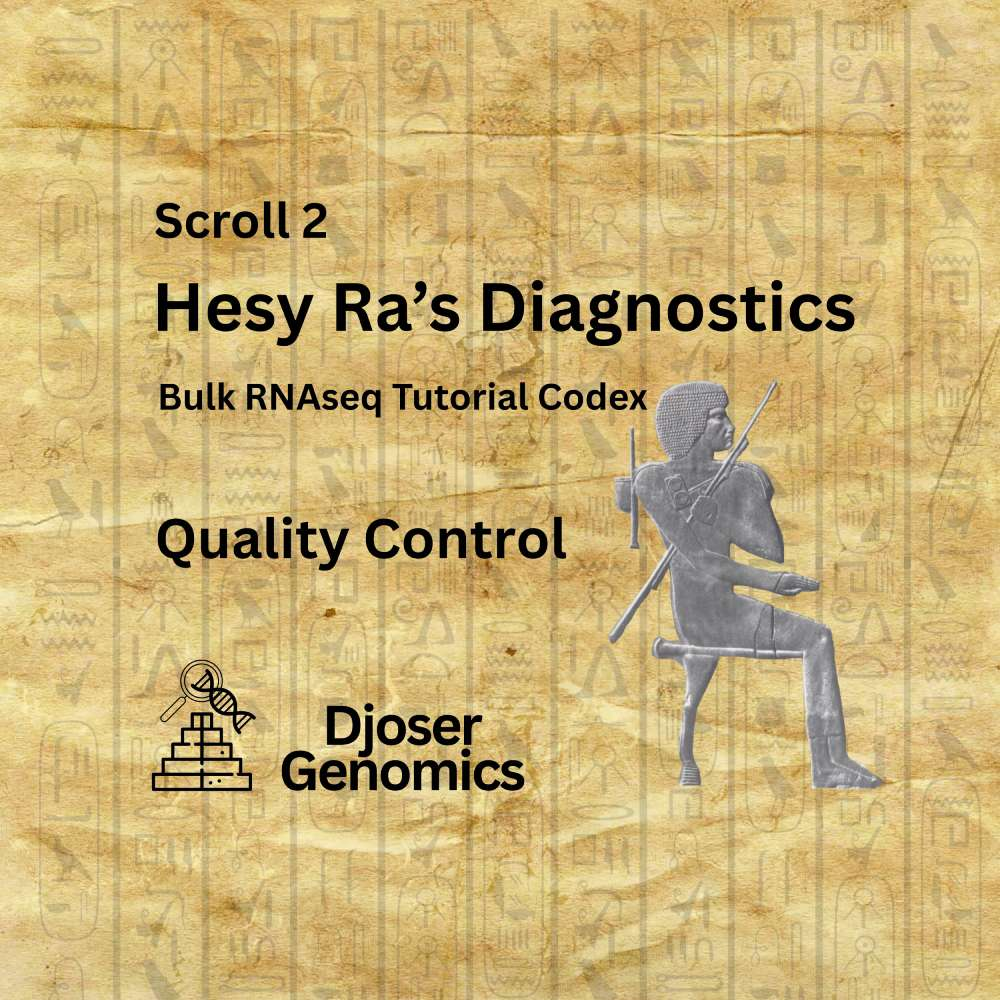
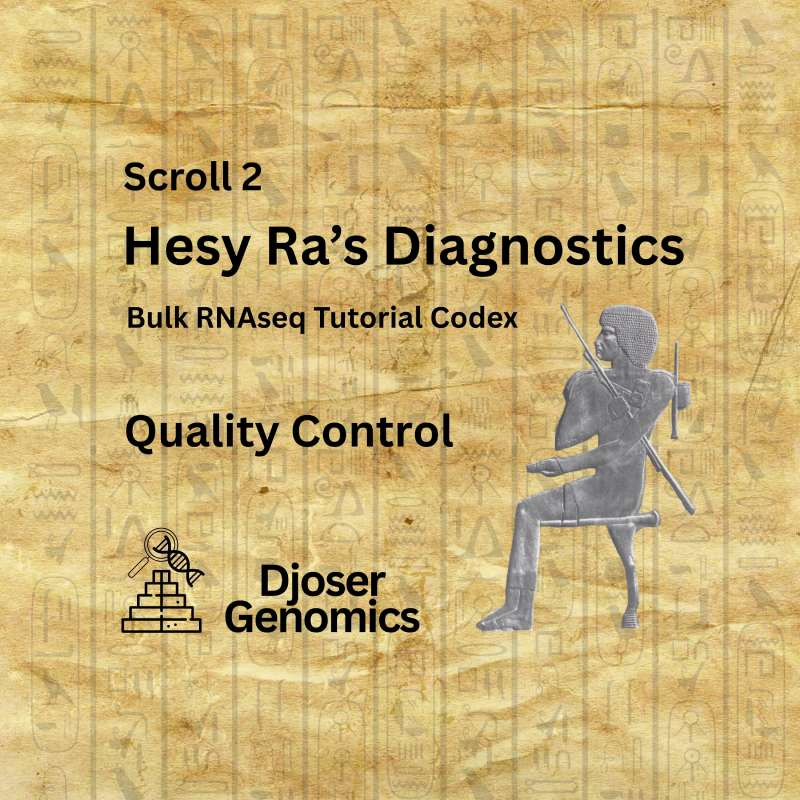
Created Scroll 3 and Optimized the Scrolls Images

diff --git a/_posts/2025-08-07-Scroll-3-Khufus-Calculations.md b/_posts/2025-08-07-Scroll-3-Khufus-Calculations.md
@@ -1,0 +1,334 @@
+---
+title: "Scroll 3: Khufu's Calculations"
+layout: post
+author: Nourelden
+categories: [Tutorials, RNAseq]
+tags: ["Bulk RNAseq Tutorial Codex", "History", "Djoser Genomics", "2025"]
+image: "assets/images/posts/Scroll-3-Khufus-Calculations/Scroll 3 Khufus Calculations.jpg"
+featured: true
+hidden: false
+---
+
+Welcome to **Scroll 3** of 8, from the [_Djoser’s Bulk RNAseq Tutorial Codex_]({{site_baseurl}}/Bulk-RNAseq-Tutorial-Codex/).
+
+In this scroll, we perform pseudoalignment — a fast, reference-based mapping approach — to quantify transcripts from our RNA-seq reads. Like **Khufu**, the visionary behind the Great Pyramid, we rely on efficient design and foundational precision to build something monumental.
+
+Let’s begin the alignment.
+
+---
+
+## 📜 Scroll Objectives
+
+- [What Is Alignment, and Why Do We Do It](#what-is-alignment-and-why-do-we-do-it)
+- [Common Tools for Alignment](#common-tools-for-alignment)
+- [What is Pseudoalignment, and How Does It Differ from Alignment](#what-is-pseudoalignment-and-how-does-it-differ-from-alignment)
+- [When is Pseudoalignment the Better Option?](#when-is-pseudoalignment-the-better-option)
+- [Installing Kallisto on Google Colab](#installing-kallisto-on-google-colab)
+- [Reference Transcriptome Indexing using Kallisto](#reference-transcriptome-indexing-using-kallisto)
+- [Quantifying Expression with Kallisto](#quantifying-expression-with-kallisto)
+- [Alignment Rate Check (Quality Control)](#alignment-rate-check-quality-control)
+- [Cultural Spotlight: Khufu — Mastermind of the Great Pyramid](#cultural-spotlight-khufu-mastermind-of-the-great-pyramid)
+
+---
+
+## 🔹 <a id='what-is-alignment-and-why-do-we-do-it'> What Is Alignment, and Why Do We Do It? </a>
+
+Before we push forward in our transcriptomics journey, we must first pause — and understand the concept of sequence alignment.
+
+In RNA-seq analysis, after sequencing, we’re left with millions of short reads. But they’re just disconnected fragments. To make sense of them, we need to reconnect them to their original source: a reference genome or in our case **a reference transcriptome**.
+
+**That’s what alignment does**:
+It takes each read and finds the best-matching location in the genome or transcriptome, to help us understand where does this fragment come from in our genome or transcriptome
+
+---
+
+## 🛠 <a id='common-tools-for-alignment'> Common Tools for Alignment </a>
+
+These tools use algorithms to search for where reads fit:
+
+- **HISAT2** – Fast, memory-efficient, often used for genome alignment.
+
+- **STAR** – Extremely fast and splice-aware, ideal for eukaryotic transcriptome data.
+
+- **BWA** – Great for DNA reads, used often in genomics pipelines.
+
+But there's a catch, Alignment is powerful, but also **computationally expensive**. It can take hours, require a strong CPU, computational power and produce huge files (like **BAMs**). For large datasets or limited compute resources, it becomes a bottleneck.
+
+That’s where **King Khufu** would raise an eyebrow, and perhaps suggest a more efficient architectural strategy.
+
+---
+
+## 🧭 <a id='what-is-pseudoalignment-and-how-does-it-differ-from-alignment'> What is Pseudoalignment, and How Does It Differ from Alignment? </a>
+
+Pseudoalignment skips the base-by-base matching. Instead, it identifies **which transcripts** a read _could have_ originated from, without determining its exact position. It uses **k-mers** (short subsequences of length k) from the reads and compares them to a k-mer index of the transcriptome.
+
+Think of it like asking: “Does this read _belong_ to transcript X, Y, or Z?” rather than: “Where exactly does this read align in the genome?”
+
+The two most widely known pseudoaligners are:
+
+- **Kallisto** – The tool we'll be using in this scroll.
+- **Salmon** – Another fast and flexible pseudoaligner.
+
+## 🚀 <a id='when-is-pseudoalignment-the-better-option'> When is Pseudoalignment the Better Option? </a>
+
+Pseudoalignment is a great choice when:
+
+- Your goal is **quantification**, estimating transcript/gene expression levels, not variant calling or splicing analysis.
+- You want **speed and efficiency**, it can process large datasets _much_ faster than traditional aligners.
+- You have **limited computational resources**, pseudoalignment uses less RAM and CPU.
+
+However, it’s not suitable if you need:
+
+- Precise **read locations** on the genome.
+- Working on **splicing**.
+- Using any other tools that use a BAM alignment files.
+
+For bulk RNA-seq focused on quantification, **pseudoalignment offers an optimal balance between speed and accuracy**, which is exactly why we’re using Kallisto in this tutorial.
+
+> If you want to learn more about alignment vs pseudoalignment (Kallisto), check out this [Awesome Video from DIY.transcriptomics](https://diytranscriptomics.com/project/lecture-02#part-3---a-discussion-of-traditional-and-alignment-free-pseudoalignment-methods-for-quantifying-gene-expression).
+
+---
+
+## ▶ <a id='installing-kallisto-on-google-colab'> Installing Kallisto on Google Colab </a>
+
+To run Kallisto in Google Colab, we need to install it manually using Conda.
+
+### Step 1: Install Conda (Miniconda)
+
+We’ll begin by downloading and installing **Miniconda**, a lightweight version of Conda:
+
+```python
+# Install Miniconda
+!wget https://repo.anaconda.com/miniconda/Miniconda3-latest-Linux-x86_64.sh
+!chmod +x Miniconda3-latest-Linux-x86_64.sh
+!./Miniconda3-latest-Linux-x86_64.sh -b -f -p /usr/local
+```
+
+This code does the following:
+
+- `wget` downloads the Miniconda installer.
+- `chmod +x` gives execute permissions.
+- The `./` command installs it to `/usr/local`
+
+Then verify the installation:
+
+```python
+# Verify Conda installation
+!conda --version
+```
+
+---
+
+### Step 2: Update Environment Variables
+
+After installing Miniconda, we need to ensure that the Conda commands are recognized in our Colab environment.
+
+```python
+import os
+os.environ['PATH'] = '/usr/local/bin:' + os.environ['PATH']
+```
+
+This code makes sure Conda commands are recognized and can be used inside the Colab environment.
+
+---
+
+### Step 3: Add Conda Channels
+
+We’ll add the required Conda channels to access bioinformatics tools:
+
+```bash
+!conda config --add channels defaults
+!conda config --add channels bioconda
+!conda config --set offline false
+```
+
+- `defaults` is the main Conda channel.
+- `bioconda` contains bioinformatics software like Kallisto.
+
+We also make sure Conda won’t default to offline mode.
+
+You can confirm the channels were added:
+
+```bash
+!conda config --show channels
+```
+
+---
+
+### Step 4: Install Kallisto
+
+Now install Kallisto directly from Bioconda:
+
+```bash
+!conda install -c bioconda kallisto -y
+```
+
+The `-y` flag auto-confirms installation prompts.
+
+Finally, test that it is successfully installed:
+
+```bash
+!kallisto
+```
+
+---
+
+## 🛠 <a id='reference-transcriptome-indexing-using-kallisto'> Reference Transcriptome Indexing using Kallisto </a>
+
+Before we can pseudoalign RNA-seq reads using Kallisto, we need to **create an index** from a reference transcriptome. The index enables Kallisto to rapidly locate the origin of reads.
+
+### 🧠 What is Indexing?
+
+Indexing is the process of converting a FASTA reference file into a structured, searchable format that the aligner or pseudoaligner can use for quick read assignment.
+
+For Kallisto, the input reference is usually a **cDNA (transcript-level)** FASTA file, not the full genome. This is because Kallisto performs transcript-level quantification.
+
+Without indexing, Kallisto would have to scan the entire reference file for every read — this would be very slow and computationally inefficient. The index accelerates the process by using k-mer hashing.
+
+---
+
+### 🛠 Creating the Reference Transcriptome Index
+
+First we will **Unzip** the FASTA file if it's compressed (`.gz`).
+
+```python
+# Unzipping the reference FASTA
+!gunzip "/content/RNAseq/Homo_sapiens.GRCh38.cdna.all.fa.gz"
+```
+
+Then we will use `!kallisto index` to create the index file.
+
+```python
+# Defining file paths
+fasta_file = os.path.join(folderPath, "Homo_sapiens.GRCh38.cdna.all.fa")
+index_file = os.path.join(folderPath, "Homo_sapiens.GRCh38.cdna.all.index")
+
+# Creating the kallisto index
+!kallisto index -i {index_file} {fasta_file}
+
+# Confirming success
+print(f"Index created: {index_file}")
+```
+
+---
+
+## 🚀 <a id='quantifying-expression-with-kallisto'> Quantifying Expression with Kallisto </a>
+
+Once the reference transcriptome index is prepared, it's time to quantify transcript abundances for each sample using **Kallisto's `quant`** command.
+
+`kallisto quant` takes your indexed reference and your raw FASTQ files and performs **psuedoalignment** to estimate how many transcripts are present in each sample—quickly and efficiently.
+
+### 🗂 Sample Setup
+
+We define a list of our samples with corresponding FASTQ files:
+
+```python
+kallistoData = [['HS01', 'SRR24448340.fastq.gz'],
+                ['HS02', 'SRR24448339.fastq.gz'],
+                ['HS03', 'SRR24448338.fastq.gz'],
+                ['CD01', 'SRR24448337.fastq.gz'],
+                ['CD02', 'SRR24448336.fastq.gz'],
+                ['CD03', 'SRR24448335.fastq.gz']]
+```
+
+- **HS** samples are healthy controls.
+
+- **CD** samples are from cardiac disease patients.
+
+> The **HS** and **CD** prefixes help us differentiate between healthy and disease samples, which is crucial for downstream analysis, You can know which sample is which through the sample metadata of each one on **ENA**.
+
+---
+
+### ⚙ Run Kallisto for Each Sample
+
+Let's Create our main Output folder for Kallisto results:
+
+```python
+mkdir RNAseq/kallisto
+```
+
+Then we run quantification with the following code:
+
+```python
+for data in kallistoData:
+  folder = os.path.join(folderPath, f"kallisto/{data[0]}")
+  filelocation = os.path.join(folderPath, data[1])
+
+  !kallisto quant \
+  -i {index_file} \
+  -o "$folder" \
+  --single -l 250 -s 30 \
+  "$filelocation"
+```
+
+---
+
+### 🧾 Explanation:
+
+- `-i {index_file}`: The path to the reference transcriptome index you created earlier.
+
+- `-o "$folder"`: Output folder for results (TPMs and estimated counts).
+
+- `--single`: Specifies that the reads are single-end.
+
+- `-l 250 -s 30`: Estimated average fragment length and standard deviation (important for single-end data).
+
+- `"$filelocation"`: Input FASTQ file.
+
+---
+
+### ✅ Outcome:
+
+Each sample will now produce a folder containing a file named abundance.tsv, which includes:
+
+- Estimated counts
+
+- TPMs (Transcripts Per Million)
+
+- Effective lengths
+
+---
+
+## 📊 <a id='alignment-rate-check-quality-control'> Alignment Rate Check (Quality Control) </a>
+
+Before moving forward, it's essential to check the alignment rate for each sample. It can be found in the `run_info.json` file inside each sample's output directory.
+
+Open the `run_info.json` file and look for the `p_pseudoaligned` field. A **good alignment rate is typically above 70–80%**. Low alignment percentages might indicate issues like:
+
+- Poor-quality reads
+- Contamination
+- Incorrect transcriptome index
+
+> ⚠ If alignment rates are unusually low, consider rechecking your FASTQ files or the transcriptome reference.
+
+---
+
+**That’s it!** You can now download the kallisto folder from the left sidebar in Google Colab.
+
+You now have quantification results for all samples, ready to be imported into R for downstream analysis and visualization!
+
+Now time for our next Cultural Spotlight.
+
+---
+
+## 🏛 <a id="cultural-spotlight-khufu-mastermind-of-the-great-pyramid">Cultural Spotlight: Khufu — Mastermind of the Great Pyramid</a>
+
+<div style="text-align: center;">
+  <img src="/assets/images/posts/Scroll-3-Khufus-Calculations/Khufu.png" alt="Khufu" width="400"/>
+  <p style="font-size: 0.8em; color: gray;"><a href="https://commons.wikimedia.org/wiki/File:Khufu.jpg" target="_blank">© Wikimedia Commons / Osiritkos - CC BY-SA 4.0</a></p>
+</div>
+
+As we align sequences with surgical precision, let’s spotlight a figure known for monumental precision — **King Khufu (c. 2600 BC)**. Also known as **Cheops**, Khufu was the pharaoh behind the construction of the **Great Pyramid of Giza**, the largest and most iconic pyramid in Egypt.
+
+<div style="text-align: center;">
+  <img src="/assets/images/posts/Scroll-3-Khufus-Calculations/Great_Pyramid_of_Giza.jpg" alt="Great Pyramid of Giza" width="700"/>
+  <p style="font-size: 0.8em; color: gray;"><a href="https://commons.wikimedia.org/wiki/File:Great_Pyramid_of_Giza_-_Pyramid_of_Khufu.jpg" target="_blank">© Wikimedia Commons / Douwe C. van der Zee - CC BY-SA 4.0</a></p>
+</div>
+
+Khufu’s pyramid stood as the tallest human-made structure on Earth for over 3,800 years — a true feat of ancient engineering, planning, and coordination. Much like genome indexing prepares the way for efficient data alignment, Khufu’s pyramid was a meticulously planned foundation that shaped architectural history.
+
+---
+
+> Papyrus Background from the Post's Cover photo is from [Freepik](https://www.freepik.com/free-photo/grunge-background_4258615.htm)
+
+---

diff --git a/_posts/2025-08-06-Scroll-2-Hesy-Ras-Diagnostics.md b/_posts/2025-08-06-Scroll-2-Hesy-Ras-Diagnostics.md
@@ -27,7 +27,7 @@ Let’s dive into **Quality Control**.
 - [Interpreting the FastQC Reports](#interpreting-the-fastqc-reports)
 - [Bonus: Summarizing Results with MultiQC](#bonus-summarizing-results-with-multiqc)
 - [Interpreting the MultiQC Report](#interpreting-the-multiqc-report)
-- [Cultural Spotlight: Hesy-Ra – The Scribe of Teeth and Records](#cultural-spotlight-hesy-ra)
+- [Cultural Spotlight: Hesy-Ra – The Scribe of Teeth and Records](#cultural-spotlight-hesy-ra-the-scribe-of-teeth-and-records)
 
 ---
 
@@ -262,7 +262,7 @@ Let’s now take a cultural breath with our next Spotlight.
 
 ---
 
-## 🏛 <a id="cultural-spotlight-hesy-ra">Cultural Spotlight: Hesy-Ra – The Scribe of Teeth and Records</a>
+## 🏛 <a id="cultural-spotlight-hesy-ra-the-scribe-of-teeth-and-records">Cultural Spotlight: Hesy-Ra – The Scribe of Teeth and Records</a>
 
 <div style="text-align: center;">
   <img src="/assets/images/posts/Scroll-2-Hesy-Ras-Diagnostics/Hesy-Ra.jpg" alt="Hesy-Ra" width="400"/>
